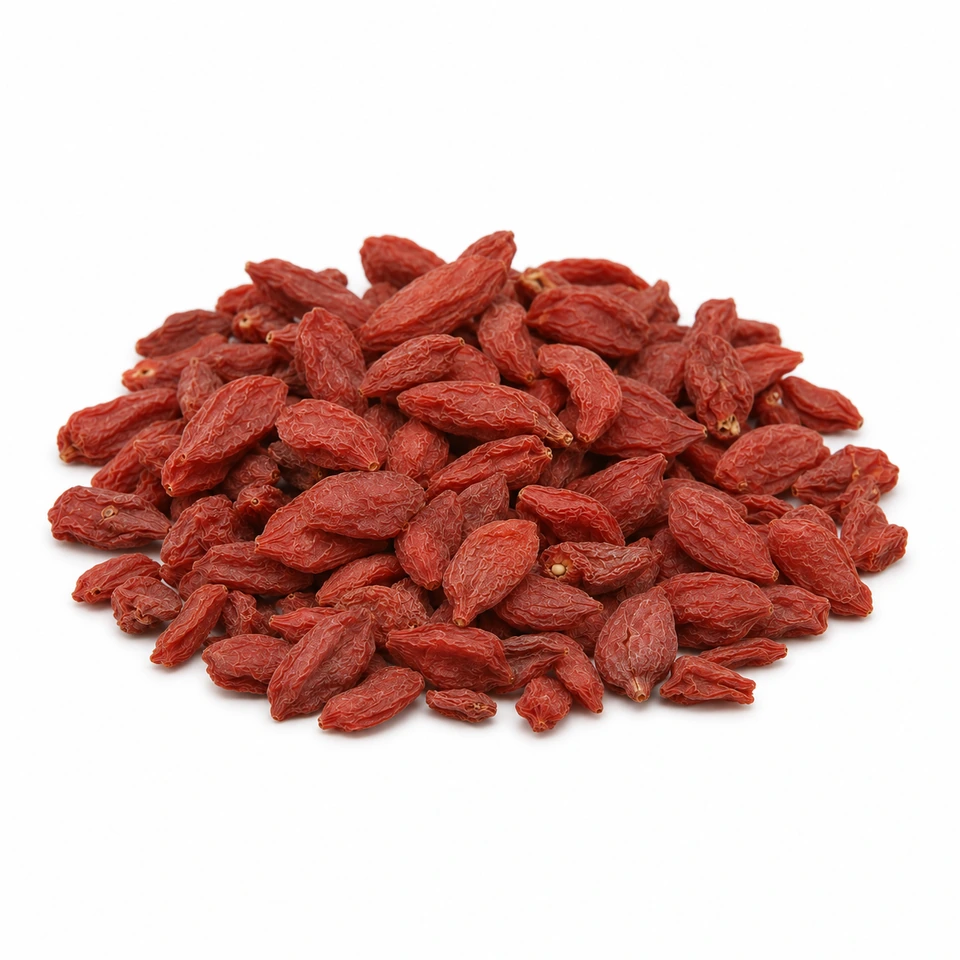
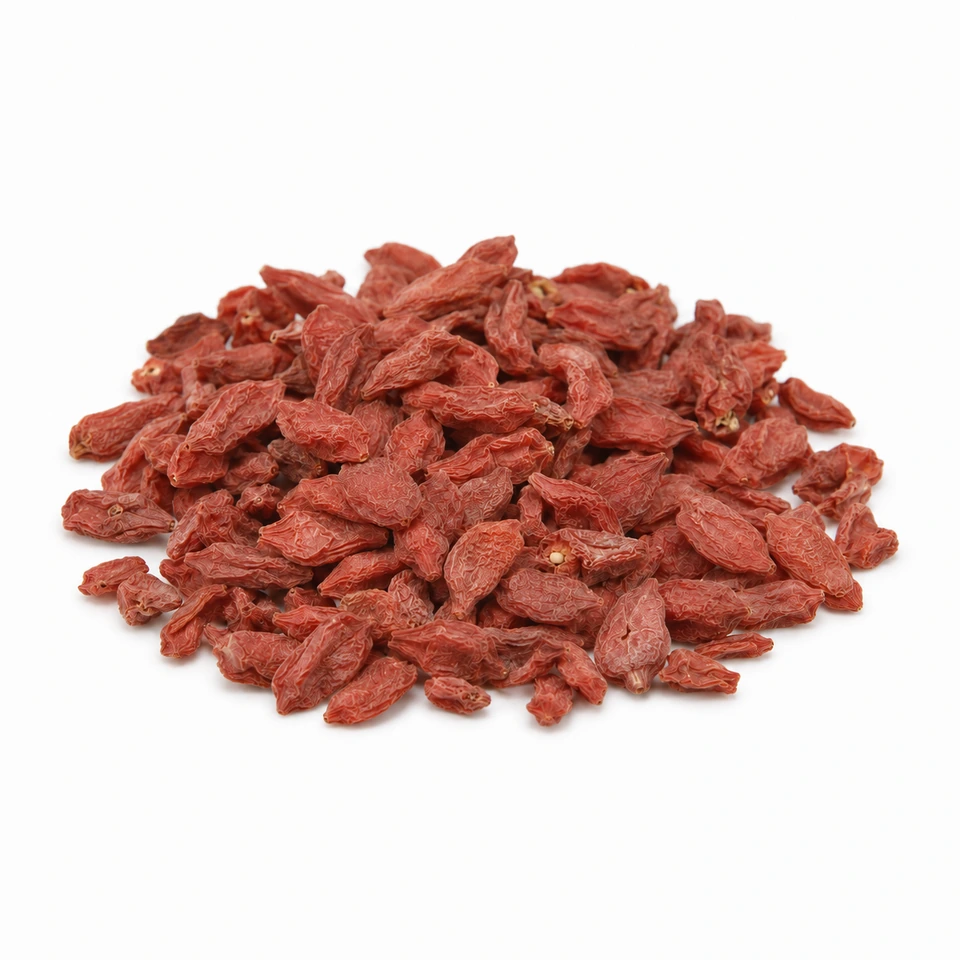
Match premium goji to large grade with approved red color adjustment

Changed region(s): [[0.0312, 0.2188, 0.9688, 0.7812]]

diff --git a/app/ProductImage.js b/app/ProductImage.js
@@ -8,7 +8,7 @@ export default function ProductImage({ src, name, origin }) {
   const visible = Boolean(src) && !failed;
   const reference = src?.startsWith("/products-reference/");
   const localPhoto = reference || src?.startsWith("/products/");
-  const imageSrc = localPhoto ? `${src}${src.includes("?") ? "&" : "?"}photo=${src.split("?")[0] === "/products-reference/uniform-20261029/herb-001.webp" ? "gaja-20261117-v1" : src.split("?")[0] === "/products-reference/uniform-20261029/herb-003-v2.webp" ? "galgeun-20261117-v1" : src.split("?")[0] === "/products-reference/uniform-20261029/herb-004.webp" ? "galhwa-20261118-v1" : src.split("?")[0] === "/products-reference/uniform-20261029/herb-005.webp" ? "gamguk-20261118-v1" : src.split("?")[0] === "/products-reference/uniform-20261029/gamin-geomin.webp" ? "geomin-20261118-v1" : src.split("?")[0] === "/products-reference/uniform-20261029/herb-007.webp" ? "licorice-20261118-v1" : src.split("?")[0] === "/products-reference/uniform-20261029/gamcho-yangwai1-20261118.webp" ? "yangwai1-20261118-v3" : src.split("?")[0] === "/products-reference/uniform-20261029/gamcho-roasted-v2.webp" ? "roasted-20261118-v2" : src.split("?")[0].startsWith("/products-reference/uniform-20261029/gamcho-roasted-") ? "roasted-20261118-v2" : src.split("?")[0] === "/products-reference/uniform-20261029/herb-008.webp" ? "ganghwal-20261118-v1" : src.split("?")[0] === "/products-reference/uniform-20261029/herb-009-v2.webp" ? "jamganghwal-20261118-v3" : src.split("?")[0] === "/products-reference/uniform-20261029/herb-010.webp" ? "ganghwang-20261118-v2" : src.split("?")[0] === "/products-reference/uniform-20261029/herb-011.webp" ? "gaeja-20261118-v1" : src.split("?")[0] === "/products-reference/uniform-20261029/herb-012.webp" ? "ginger-20261118-v3" : src.split("?")[0] === "/products-reference/uniform-20261029/herb-013-v2.webp" ? "ginger-roasted-20261118-v1" : src.split("?")[0] === "/products-reference/uniform-20261029/ginger-domestic-20261118.webp" ? "ginger-domestic-20261118-v2" : src.split("?")[0] === "/products-reference/uniform-20261029/herb-014-v3.webp" ? "chestnut-20261118-v1" : src.split("?")[0] === "/products-reference/uniform-20261029/herb-015-v2.webp" ? "pharbitis-20261118-v1" : src.split("?")[0] === "/products-reference/uniform-20261029/herb-016.webp" ? "cassia-20261118-v1" : src.split("?")[0] === "/products-reference/uniform-20261029/herb-017-v2.webp" ? "gizzard-20261118-v1" : src.split("?")[0] === "/products-reference/uniform-20261029/herb-018-v2.webp" ? "gizzard-roasted-20261118-v1" : src.split("?")[0] === "/products-reference/uniform-20261029/herb-019-v3.webp" ? "twig-20261118-v1" : src.split("?")[0] === "/products-reference/uniform-20261029/herb-020.webp" ? "vine-20261118-v1" : src.split("?")[0] === "/products-reference/uniform-20261029/herb-021.webp" ? "galangal-20261118-v1" : src.split("?")[0] === "/products-reference/uniform-20261029/gobon-domestic-20261118.webp" ? "gobon-dom-20261118-v1" : src.split("?")[0] === "/products-reference/uniform-20261029/herb-022.webp" ? "gobon-imp-20261118-v1" : src.split("?")[0] === "/products-reference/uniform-20261029/herb-023-v2.webp" ? "sophora-20261118-v1" : src.split("?")[0] === "/products-reference/uniform-20261029/herb-024-v2.webp" ? "mistletoe-20261118-v1" : src.split("?")[0] === "/products-reference/uniform-20261029/herb-025.webp" ? "rice-20261118-v1" : src.split("?")[0] === "/products-reference/uniform-20261029/herb-026-v2.webp" ? "drynaria-20261118-v1" : src.split("?")[0] === "/products-reference/uniform-20261029/herb-027-v2.webp" ? "fruit-20261118-v1" : src.split("?")[0] === "/products-reference/uniform-20261029/gwakhyang.webp" ? "agastache-20261118-v1" : src.split("?")[0] === "/products-reference/uniform-20261029/herb-028-v2.webp" ? "coltsfoot-20261118-v1" : src.split("?")[0] === "/products-reference/uniform-20261029/gwallugeun-domestic-20261118.webp" ? "trich-dom-20261118-v1" : src.split("?")[0] === "/products-reference/uniform-20261029/herb-029-v2.webp" ? "trich-imp-20261118-v1" : src.split("?")[0] === "/products-reference/uniform-20261029/herb-031.webp" ? "seed-whole-20261119-v1" : src.split("?")[0] === "/products-reference/uniform-20261029/herb-030-v2.webp" ? "seed-coarse-20261119-v1" : src.split("?")[0] === "/products-reference/uniform-20261029/herb-032-v3.webp" ? "patchouli-20261119-v1" : src.split("?")[0] === "/products-reference/uniform-20261029/herb-033-v3.webp" ? "sophorabud-20261119-v1" : src.split("?")[0] === "/products-reference/uniform-20261029/gugija-domestic-20261119.webp" ? "goji-dom-20261119-v1" : src.split("?")[0] === "/products-reference/uniform-20261029/gugija-large-20261119.webp" ? "goji-large-20261119-v1" : src.split("?")[0] === "/products-reference/uniform-20261029/gugija-premium-20261119.webp" ? "goji-premium-20261119-v1" : "linen-20261116-v2"}` : src;
+  const imageSrc = localPhoto ? `${src}${src.includes("?") ? "&" : "?"}photo=${src.split("?")[0] === "/products-reference/uniform-20261029/herb-001.webp" ? "gaja-20261117-v1" : src.split("?")[0] === "/products-reference/uniform-20261029/herb-003-v2.webp" ? "galgeun-20261117-v1" : src.split("?")[0] === "/products-reference/uniform-20261029/herb-004.webp" ? "galhwa-20261118-v1" : src.split("?")[0] === "/products-reference/uniform-20261029/herb-005.webp" ? "gamguk-20261118-v1" : src.split("?")[0] === "/products-reference/uniform-20261029/gamin-geomin.webp" ? "geomin-20261118-v1" : src.split("?")[0] === "/products-reference/uniform-20261029/herb-007.webp" ? "licorice-20261118-v1" : src.split("?")[0] === "/products-reference/uniform-20261029/gamcho-yangwai1-20261118.webp" ? "yangwai1-20261118-v3" : src.split("?")[0] === "/products-reference/uniform-20261029/gamcho-roasted-v2.webp" ? "roasted-20261118-v2" : src.split("?")[0].startsWith("/products-reference/uniform-20261029/gamcho-roasted-") ? "roasted-20261118-v2" : src.split("?")[0] === "/products-reference/uniform-20261029/herb-008.webp" ? "ganghwal-20261118-v1" : src.split("?")[0] === "/products-reference/uniform-20261029/herb-009-v2.webp" ? "jamganghwal-20261118-v3" : src.split("?")[0] === "/products-reference/uniform-20261029/herb-010.webp" ? "ganghwang-20261118-v2" : src.split("?")[0] === "/products-reference/uniform-20261029/herb-011.webp" ? "gaeja-20261118-v1" : src.split("?")[0] === "/products-reference/uniform-20261029/herb-012.webp" ? "ginger-20261118-v3" : src.split("?")[0] === "/products-reference/uniform-20261029/herb-013-v2.webp" ? "ginger-roasted-20261118-v1" : src.split("?")[0] === "/products-reference/uniform-20261029/ginger-domestic-20261118.webp" ? "ginger-domestic-20261118-v2" : src.split("?")[0] === "/products-reference/uniform-20261029/herb-014-v3.webp" ? "chestnut-20261118-v1" : src.split("?")[0] === "/products-reference/uniform-20261029/herb-015-v2.webp" ? "pharbitis-20261118-v1" : src.split("?")[0] === "/products-reference/uniform-20261029/herb-016.webp" ? "cassia-20261118-v1" : src.split("?")[0] === "/products-reference/uniform-20261029/herb-017-v2.webp" ? "gizzard-20261118-v1" : src.split("?")[0] === "/products-reference/uniform-20261029/herb-018-v2.webp" ? "gizzard-roasted-20261118-v1" : src.split("?")[0] === "/products-reference/uniform-20261029/herb-019-v3.webp" ? "twig-20261118-v1" : src.split("?")[0] === "/products-reference/uniform-20261029/herb-020.webp" ? "vine-20261118-v1" : src.split("?")[0] === "/products-reference/uniform-20261029/herb-021.webp" ? "galangal-20261118-v1" : src.split("?")[0] === "/products-reference/uniform-20261029/gobon-domestic-20261118.webp" ? "gobon-dom-20261118-v1" : src.split("?")[0] === "/products-reference/uniform-20261029/herb-022.webp" ? "gobon-imp-20261118-v1" : src.split("?")[0] === "/products-reference/uniform-20261029/herb-023-v2.webp" ? "sophora-20261118-v1" : src.split("?")[0] === "/products-reference/uniform-20261029/herb-024-v2.webp" ? "mistletoe-20261118-v1" : src.split("?")[0] === "/products-reference/uniform-20261029/herb-025.webp" ? "rice-20261118-v1" : src.split("?")[0] === "/products-reference/uniform-20261029/herb-026-v2.webp" ? "drynaria-20261118-v1" : src.split("?")[0] === "/products-reference/uniform-20261029/herb-027-v2.webp" ? "fruit-20261118-v1" : src.split("?")[0] === "/products-reference/uniform-20261029/gwakhyang.webp" ? "agastache-20261118-v1" : src.split("?")[0] === "/products-reference/uniform-20261029/herb-028-v2.webp" ? "coltsfoot-20261118-v1" : src.split("?")[0] === "/products-reference/uniform-20261029/gwallugeun-domestic-20261118.webp" ? "trich-dom-20261118-v1" : src.split("?")[0] === "/products-reference/uniform-20261029/herb-029-v2.webp" ? "trich-imp-20261118-v1" : src.split("?")[0] === "/products-reference/uniform-20261029/herb-031.webp" ? "seed-whole-20261119-v1" : src.split("?")[0] === "/products-reference/uniform-20261029/herb-030-v2.webp" ? "seed-coarse-20261119-v1" : src.split("?")[0] === "/products-reference/uniform-20261029/herb-032-v3.webp" ? "patchouli-20261119-v1" : src.split("?")[0] === "/products-reference/uniform-20261029/herb-033-v3.webp" ? "sophorabud-20261119-v1" : src.split("?")[0] === "/products-reference/uniform-20261029/gugija-domestic-20261119.webp" ? "goji-dom-20261119-v1" : src.split("?")[0] === "/products-reference/uniform-20261029/gugija-large-20261119.webp" ? "goji-large-20261119-v1" : src.split("?")[0] === "/products-reference/uniform-20261029/gugija-premium-20261119.webp" ? "goji-premium-20261119-v2" : "linen-20261116-v2"}` : src;
   const domesticGalgeun = /^갈근(?:\s*\((?:사각|강원문막)\))?$/.test(name || "")
     && /국내산|국산|한국|대한민국/.test(origin || "")
     && src?.split("?")[0] === "/products-reference/uniform-20261029/herb-003-v2.webp";
